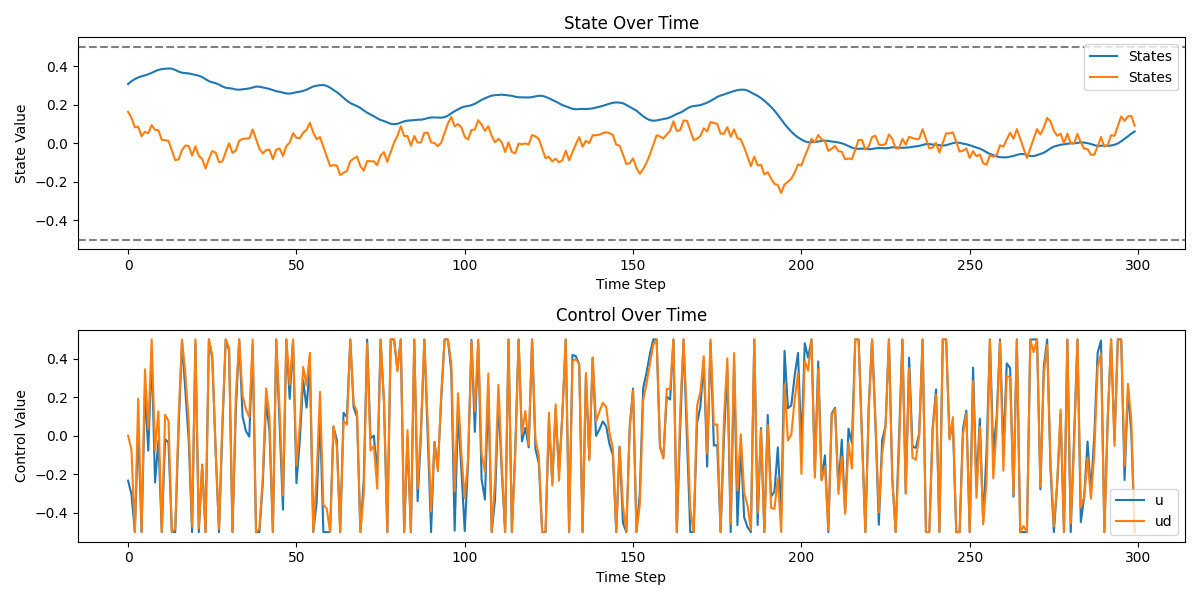
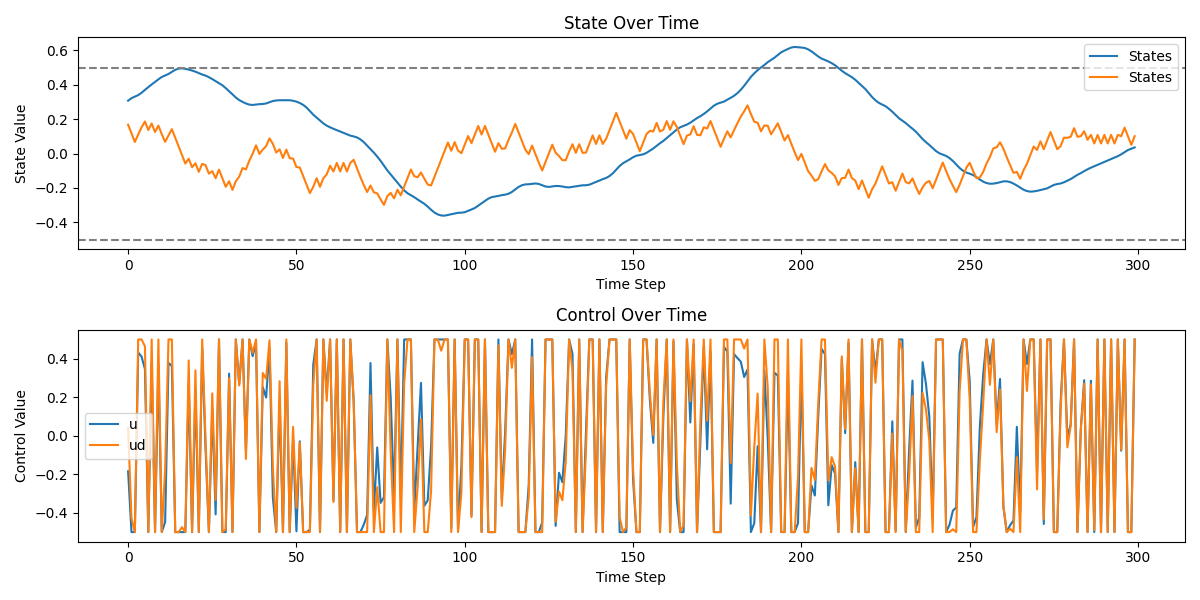
do some tests by mlp

diff --git a/learning-qp-master/src/psf/integrated_env_creators.py b/learning-qp-master/src/psf/integrated_env_creators.py
@@ -6,6 +6,7 @@ from src.envs.env_creators import env_creators, sys_param
 import gym
 from icecream import ic
 import matplotlib.pyplot as plt
+from torch.distributions import Beta
 
 class Integrated_env:
     def __init__(self, env_name, **kwargs):
@@ -40,6 +41,13 @@ class Integrated_env:
         self.visualize = False
         if self.bs==1 and self.train_or_test=="test":
             self.visualize = True
+            
+    def get_noise(self):
+        # 创建一个Beta分布，alpha和beta的值可以根据需要调整
+        dist = Beta(torch.tensor([1.0]), torch.tensor([10.0]))
+        noise = dist.sample() * 3  # 缩放到0到3的范围
+        noise = noise.to(self.device)
+        return noise
     
     def get_ud(self, obs):
         # x, x_dot, theta, theta_dot, x_ref = self.env.obs()
@@ -48,6 +56,7 @@ class Integrated_env:
             # generate randomly (only work for action_dim = 1)
             # ud = self.u_min + (self.u_max - self.u_min) * torch.rand(self.env.bs, device=self.device)
             
+            #noise = self.get_noise()
             noise = 0.3
             v = (noise * torch.randn((self.bs, 1), device=self.device))
             ud = self.env.get_action_LQR(noise_level = noise) + v  # 双重噪声
@@ -67,7 +76,7 @@ class Integrated_env:
             # bang-bang control (使用 torch.where 来向量化条件操作
             # ud = torch.where(theta >= 0.2, torch.full_like(theta, self.u_max), torch.where(theta <= -0.2, torch.full_like(theta, self.u_min), torch.zeros_like(theta)))
             # LQR control
-            noise = 0.5
+            noise = 1
             v = (noise * torch.randn((self.bs, 1), device=self.device))
             ud = self.env.get_action_LQR(noise_level = noise) + v  # 双重噪声
             # ud = v
@@ -82,7 +91,9 @@ class Integrated_env:
         if self.train_or_test == "train":
             init_ud = self.get_ud(init_obs)
         elif self.train_or_test == "test":
-            init_ud = torch.zeros(self.env.bs, device=self.device)     # cuz initial theta is small (0.1)
+            # init_ud = torch.zeros(self.env.bs, device=self.device)     # cuz initial theta is small (0.1)
+            # self.ud = init_ud
+            init_ud = self.get_ud(init_obs)
             self.ud = init_ud
         combined_obs = torch.cat((init_obs, init_ud.unsqueeze(-1)), dim=-1)
         return combined_obs
@@ -105,7 +116,7 @@ class Integrated_env:
     #     return self.env.cost(*args, **kwargs)
     
     def reward(self,original_reward, action):
-        coef_original = 0.
+        coef_original = 0.0
         original_reward = coef_original * original_reward
         
         original_safe_cost = -self.env.safe_cost()

diff --git a/learning-qp-master/test_lqr.py b/learning-qp-master/test_lqr.py
@@ -137,7 +137,7 @@ def test_lqr(env, num_episodes):
 
         while active_mask.any():  # 只要还有活跃的episode，就继续循环
             # 选择并执行动作，只对活跃的episode
-            noise_level = 0.1
+            noise_level = 0
             v = (noise_level * torch.randn((bs, 1), device=device))
             # action = env.get_action_LQR(noise_level = noise_level) + v   # LQR方法生成
             action = env.get_action_LQR(noise_level = 0) + v
